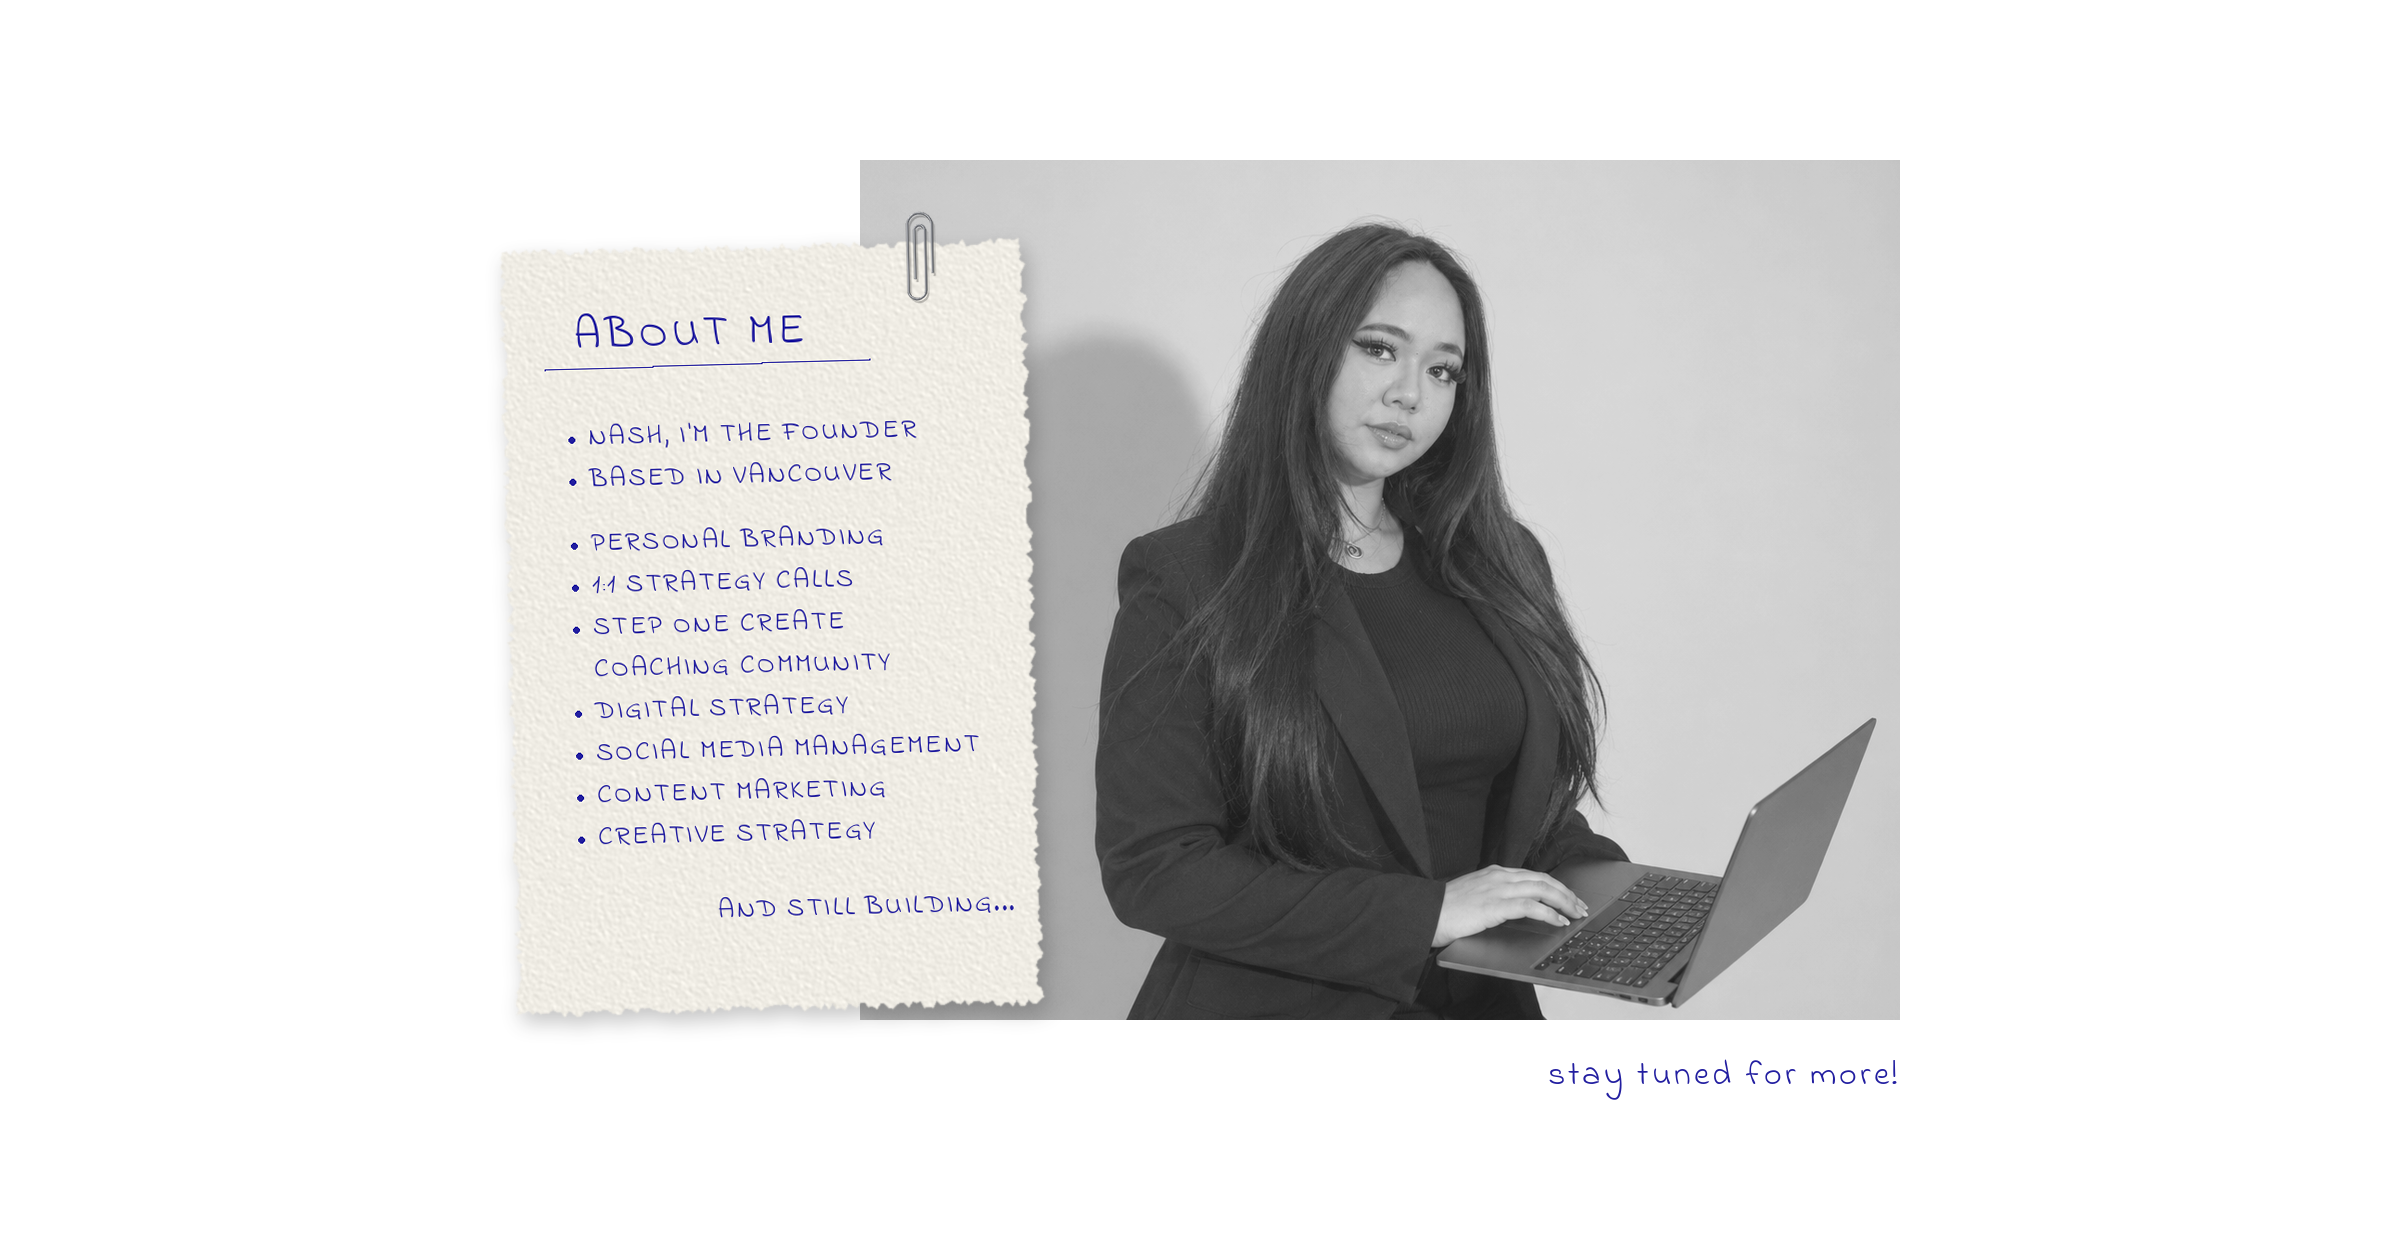
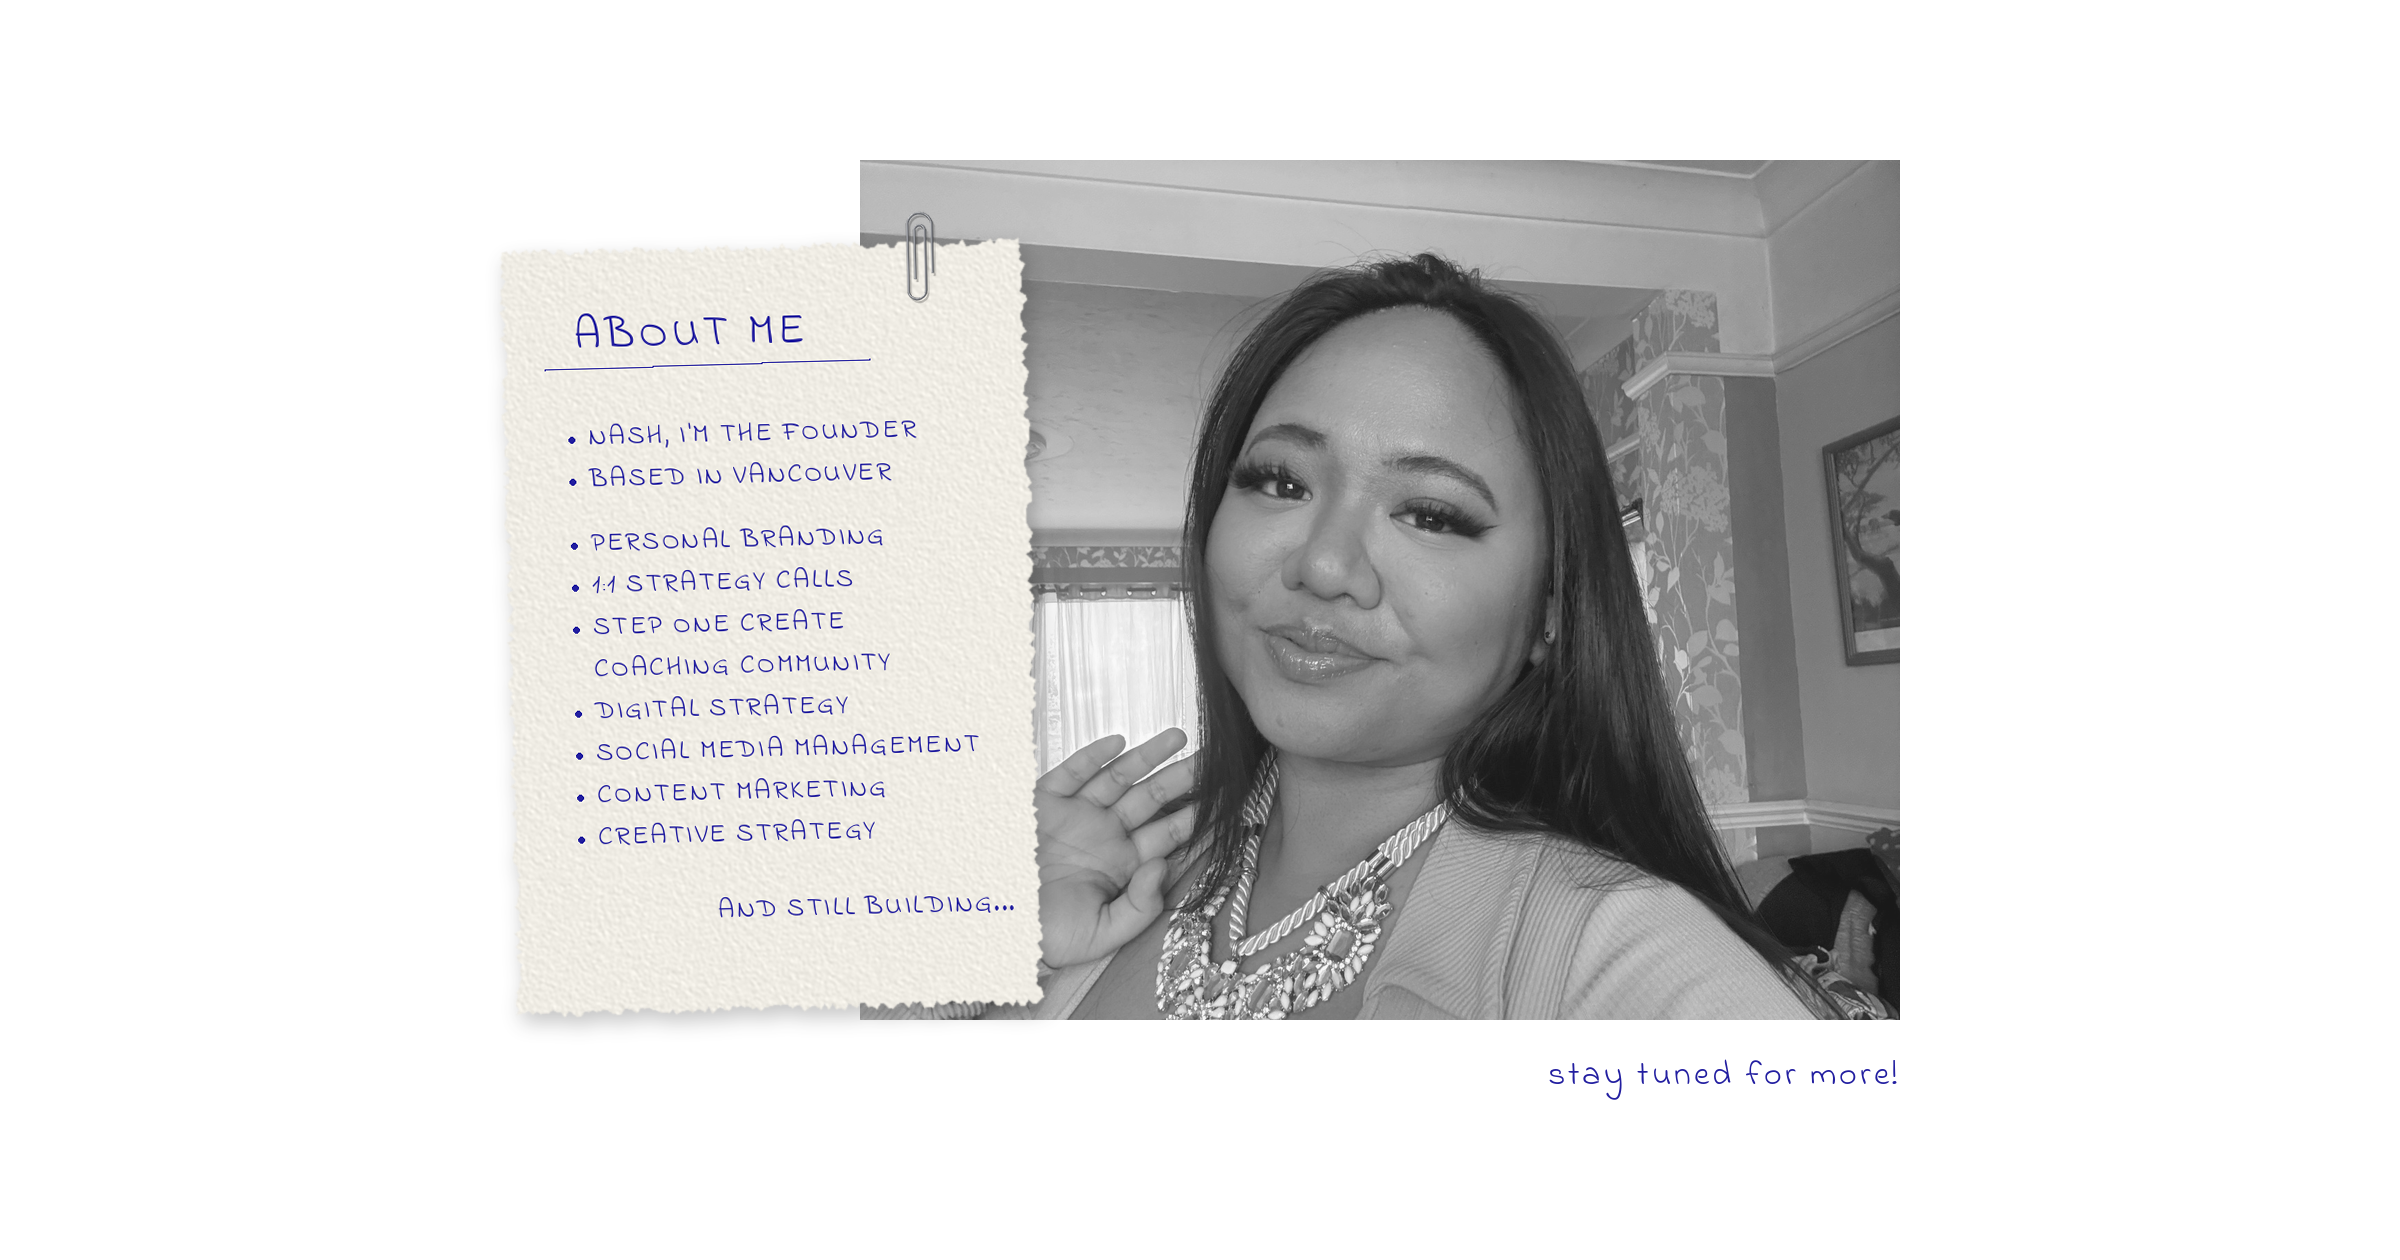
About me header: use new selfie photo
Claude-Session: https://claude.ai/code/session_01UnZExAi7n6NZXi1T3YtVwj

Changed region(s): [[0.3438, 0.1238, 0.8125, 0.8357]]

diff --git a/scripts/make_about_header.py b/scripts/make_about_header.py
@@ -19,7 +19,7 @@ pw, ph = PX1 - PX0, PY1 - PY0
 src = ImageOps.grayscale(Image.open(SRC))
 s = pw / src.width
 src = src.resize((pw, round(src.height * s)), Image.LANCZOS)
-top = int(270 * s)
+top = int((int(sys.argv[3]) if len(sys.argv) > 3 else 270) * s)   # crop top, original px
 photo = src.crop((0, top, pw, top + ph))
 a = np.asarray(photo).astype(np.float32) / 255
 a = np.clip(0.10 + 0.88 * (a ** 0.92), 0, 1)   # soft, lifted blacks
